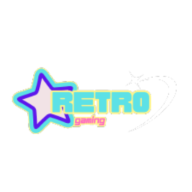
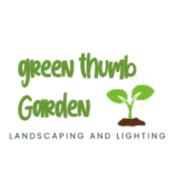
Finished project

Changed region(s): [[0.0312, 0.25, 0.875, 0.75]]

diff --git a/css/styles.min.css b/css/styles.min.css
@@ -1,1 +1,1 @@
-/*! normalize.css v8.0.1 | MIT License | github.com/necolas/normalize.css */html{line-height:1.15;-webkit-text-size-adjust:100%}body{margin:0}main{display:block}h1{font-size:2em;margin:.67em 0}hr{box-sizing:content-box;height:0;overflow:visible}pre{font-family:monospace,monospace;font-size:1em}a{background-color:rgba(0,0,0,0)}abbr[title]{border-bottom:none;text-decoration:underline;-webkit-text-decoration:underline dotted;text-decoration:underline dotted}b,strong{font-weight:bolder}code,kbd,samp{font-family:monospace,monospace;font-size:1em}small{font-size:80%}sub,sup{font-size:75%;line-height:0;position:relative;vertical-align:baseline}sub{bottom:-0.25em}sup{top:-0.5em}img{border-style:none}button,input,optgroup,select,textarea{font-family:inherit;font-size:100%;line-height:1.15;margin:0}button,input{overflow:visible}button,select{text-transform:none}button,[type=button],[type=reset],[type=submit]{-webkit-appearance:button;-moz-appearance:button;appearance:button}button::-moz-focus-inner,[type=button]::-moz-focus-inner,[type=reset]::-moz-focus-inner,[type=submit]::-moz-focus-inner{border-style:none;padding:0}button:-moz-focusring,[type=button]:-moz-focusring,[type=reset]:-moz-focusring,[type=submit]:-moz-focusring{outline:1px dotted ButtonText}fieldset{padding:.35em .75em .625em}legend{box-sizing:border-box;color:inherit;display:table;max-width:100%;padding:0;white-space:normal}progress{vertical-align:baseline}textarea{overflow:auto}[type=checkbox],[type=radio]{box-sizing:border-box;padding:0}[type=number]::-webkit-inner-spin-button,[type=number]::-webkit-outer-spin-button{height:auto}[type=search]{-webkit-appearance:textfield;-moz-appearance:textfield;appearance:textfield;outline-offset:-2px}[type=search]::-webkit-search-decoration{-webkit-appearance:none}::-webkit-file-upload-button{-webkit-appearance:button;font:inherit}details{display:block}summary{display:list-item}template{display:none}[hidden]{display:none}html{-moz-text-size-adjust:none;-webkit-text-size-adjust:none;text-size-adjust:none;height:100%}*{box-sizing:border-box}body{height:100%;font-family:"Poppins",sans-serif;font-weight:500;color:#1d741a}#headerWrapper{color:#1d741a}#titleWrapper{height:100%;margin-top:0}header{display:flex;align-items:center;justify-content:left;padding:0px;gap:8px}header h1{margin:auto 0;text-align:left;font-size:1.2rem;font-weight:800;font-family:"MuseoModerno",sans-serif;font-style:normal;color:#1d741a}.row{display:flex;flex-wrap:wrap;justify-content:center;margin:1rem 0;padding:0 8px}.column{padding:0 8px;margin:8px 0}.small-1{flex-basis:8.3333333333%}.small-2{flex-basis:16.6666666667%}.small-3{flex-basis:25%}.small-4{flex-basis:33.3333333333%}.small-5{flex-basis:41.6666666667%}.small-6{flex-basis:50%}.small-7{flex-basis:58.3333333333%}.small-8{flex-basis:66.6666666667%}.small-9{flex-basis:75%}.small-10{flex-basis:83.3333333333%}.small-11{flex-basis:91.6666666667%}.small-12{flex-basis:100%}.round,.fill,.shadow{padding:8px 8px}.round{border-radius:9px}.fill{background-color:#ffaeeb}.shadow{box-shadow:0 0 10px silver}.left{justify-content:left}.center{margin:auto;align-items:center}.swiper{position:relative}.swiper img{width:100%;height:auto}.swiper .swiper-text{position:absolute;z-index:99;bottom:10px;left:10px;color:#000;background:#000;background:linear-gradient(180deg, rgba(255, 255, 255, 0) 0%, rgba(255, 255, 255, 0.9220063025) 100%);padding:10px}.swiper .swiper-text h3{text-shadow:0 0 2px #494949}.swiper .swiper-text p{text-shadow:0 0 2px #494949}.headshots-wrapper{margin-top:36px}div.headshots{display:grid;grid-template-columns:1fr 1fr}div.headshots section{padding:7px}div.headshots section img{width:100%;height:auto;-webkit-clip-path:circle(50% at 50% 50%);clip-path:circle(50% at 50% 50%);transition:transform 2s}div.headshots section img:hover{transform:rotate(15deg)}div.masking{display:grid}div.masking section{position:relative;margin:5px}div.masking section h2{display:block;background-color:orange;margin:0;padding:12px;text-align:center;color:#fff;border-radius:4px 4px 0px 0px}div.masking section img{width:100%;height:auto;display:block}div.masking section img:last-child{position:absolute;bottom:0}#footerWrapper{background-color:#0aa;color:#fff}footer{padding:.5rem 16px}footer p{margin:0;font-weight:300;text-align:center}@media only screen and (max-width: 34.9375rem)and (max-width: 34.9375rem){nav{background-color:#0aa}nav button{width:100%;padding:.4rem 2vw;text-align:left;background:rgba(0,0,0,0);border:none;font-size:1.6rem;color:#fff;cursor:pointer}#primaryNav{height:0;overflow:hidden;margin:0;padding:0;z-index:998;font-weight:300}#primaryNav li.active a{background-color:rgba(0,0,0,.25)}#primaryNav li a{display:block;width:100%;padding:.75rem 2vw;font-size:14px;text-shadow:-1px -1px 0 rgba(0,0,0,.15);color:#fff;text-decoration:none;border-top:1px solid rgba(0,0,0,.2)}#primaryNav li a:hover{background-color:rgba(0,0,0,.5)}#primaryNav.open{height:auto}#primaryNav>li:hover>a{background:rgba(0,0,0,.5)}#primaryNav li.parent>a:after{font-size:1rem;content:"⋮";color:rgba(255,255,255,.5);float:right}#primaryNav li.parent>a:hover{background:rgba(0,0,0,.5)}#primaryNav li ul{display:none;background:rgba(0,0,0,.1);padding:0}#primaryNav li ul a{border-top:solid 1px rgba(0,0,0,.2);font-size:14px;padding:10px 5%;font-weight:300}#primaryNav li:hover ul{display:block}}@media only screen and (min-width: 35rem){header h1{font-size:2rem}#primaryNav{display:flex}#primaryNav li.parent>a:after{content:"▼";font-size:.65rem;color:rgba(255,255,255,.5);float:left}#navWrapper{background-color:#0aa}nav button{display:none}nav ul{margin-left:2%;border-left:1px solid rgba(255,255,255,.1);list-style-type:none}nav ul li{border-right:1px solid rgba(255,255,255,.1)}nav ul li a{display:block;font-size:1rem;padding:.9rem 1.2rem;color:#fff;text-decoration:none;transition:background .3s linear}nav ul li a:hover{background:#009191}nav ul li ul{display:flex;padding:0px;flex-direction:column;background-color:#0aa;border:none;width:12rem;position:absolute;left:-999rem}nav ul li ul li{border-right:none;border-top:solid 1px rgba(0,0,0,.2)}nav ul li ul li.active a{background-color:#009191}nav ul li:hover ul{left:auto;margin-left:0;z-index:99}div.headshots section{display:grid;grid-template-columns:140px auto;-moz-column-gap:14px;column-gap:14px;padding:10px}div.masking{display:grid;grid-template-columns:1fr 1fr}.medium-1{flex-basis:8.3333333333%}.medium-2{flex-basis:16.6666666667%}.medium-3{flex-basis:25%}.medium-4{flex-basis:33.3333333333%}.medium-5{flex-basis:41.6666666667%}.medium-6{flex-basis:50%}.medium-7{flex-basis:58.3333333333%}.medium-8{flex-basis:66.6666666667%}.medium-9{flex-basis:75%}.medium-10{flex-basis:83.3333333333%}.medium-11{flex-basis:91.6666666667%}.medium-12{flex-basis:100%}}@media only screen and (min-width: 60rem){header,nav,main,footer{max-width:60rem;margin:auto}Nav button{display:none}Nav ul,Nav ul.open{margin-left:2vw;display:flex;border:none}Nav ul li,Nav ul.open li{border:none}Nav ul li a,Nav ul.open li a{font-size:.9rem;padding:.5rem 1.2rem}div.headshots section{grid-template-columns:200px auto;-moz-column-gap:16px;column-gap:16px}div.masking{display:grid;grid-template-columns:1fr 1fr 1fr 1fr}.large-1{flex-basis:8.3333333333%}.large-2{flex-basis:16.6666666667%}.large-3{flex-basis:25%}.large-4{flex-basis:33.3333333333%}.large-5{flex-basis:41.6666666667%}.large-6{flex-basis:50%}.large-7{flex-basis:58.3333333333%}.large-8{flex-basis:66.6666666667%}.large-9{flex-basis:75%}.large-10{flex-basis:83.3333333333%}.large-11{flex-basis:91.6666666667%}.large-12{flex-basis:100%}}
+/*! normalize.css v8.0.1 | MIT License | github.com/necolas/normalize.css */html{line-height:1.15;-webkit-text-size-adjust:100%}body{margin:0}main{display:block}h1{font-size:2em;margin:.67em 0}hr{box-sizing:content-box;height:0;overflow:visible}pre{font-family:monospace,monospace;font-size:1em}a{background-color:rgba(0,0,0,0)}abbr[title]{border-bottom:none;text-decoration:underline;-webkit-text-decoration:underline dotted;text-decoration:underline dotted}b,strong{font-weight:bolder}code,kbd,samp{font-family:monospace,monospace;font-size:1em}small{font-size:80%}sub,sup{font-size:75%;line-height:0;position:relative;vertical-align:baseline}sub{bottom:-0.25em}sup{top:-0.5em}img{border-style:none}button,input,optgroup,select,textarea{font-family:inherit;font-size:100%;line-height:1.15;margin:0}button,input{overflow:visible}button,select{text-transform:none}button,[type=button],[type=reset],[type=submit]{-webkit-appearance:button;-moz-appearance:button;appearance:button}button::-moz-focus-inner,[type=button]::-moz-focus-inner,[type=reset]::-moz-focus-inner,[type=submit]::-moz-focus-inner{border-style:none;padding:0}button:-moz-focusring,[type=button]:-moz-focusring,[type=reset]:-moz-focusring,[type=submit]:-moz-focusring{outline:1px dotted ButtonText}fieldset{padding:.35em .75em .625em}legend{box-sizing:border-box;color:inherit;display:table;max-width:100%;padding:0;white-space:normal}progress{vertical-align:baseline}textarea{overflow:auto}[type=checkbox],[type=radio]{box-sizing:border-box;padding:0}[type=number]::-webkit-inner-spin-button,[type=number]::-webkit-outer-spin-button{height:auto}[type=search]{-webkit-appearance:textfield;-moz-appearance:textfield;appearance:textfield;outline-offset:-2px}[type=search]::-webkit-search-decoration{-webkit-appearance:none}::-webkit-file-upload-button{-webkit-appearance:button;font:inherit}details{display:block}summary{display:list-item}template{display:none}[hidden]{display:none}html{-moz-text-size-adjust:none;-webkit-text-size-adjust:none;text-size-adjust:none;height:100%}*{box-sizing:border-box}body{height:100%;font-family:"Poppins",sans-serif;font-weight:500;color:#1d741a}#headerWrapper{color:#1d741a}#titleWrapper{height:100%;width:500px;margin-top:0}#phone{display:none}header{display:flex;align-items:center;justify-content:left;padding:0px;gap:8px}header h1{margin:auto 0;text-align:left;font-size:1.2rem;font-family:"Titan One",sans-serif;font-weight:400;font-style:normal;color:#1d741a}.row{display:flex;flex-wrap:wrap;justify-content:center;margin:1rem 0;padding:0 8px}.column{padding:0 8px;margin:8px 0}.small-1{flex-basis:8.3333333333%}.small-2{flex-basis:16.6666666667%}.small-3{flex-basis:25%}.small-4{flex-basis:33.3333333333%}.small-5{flex-basis:41.6666666667%}.small-6{flex-basis:50%}.small-7{flex-basis:58.3333333333%}.small-8{flex-basis:66.6666666667%}.small-9{flex-basis:75%}.small-10{flex-basis:83.3333333333%}.small-11{flex-basis:91.6666666667%}.small-12{flex-basis:100%}.round,.fill,.shadow{padding:8px 8px}.round{border-radius:9px}.fill{background-color:#ffaeeb}.shadow{box-shadow:0 0 10px silver}.left{justify-content:left}.center{margin:auto;align-items:center}.swiper{position:relative}.swiper img{width:100%;height:auto}.swiper .swiper-text{position:absolute;z-index:99;bottom:10px;left:10px;color:#000;background:#000;background:linear-gradient(180deg, rgba(255, 255, 255, 0) 0%, rgba(255, 255, 255, 0.9220063025) 100%);padding:10px}.swiper .swiper-text h3{text-shadow:0 0 2px #494949}.swiper .swiper-text p{text-shadow:0 0 2px #494949}.headshots-wrapper{margin-top:36px}div.headshots{display:grid;grid-template-columns:1fr 1fr}div.headshots section{padding:7px}div.headshots section img{width:100%;height:auto;-webkit-clip-path:circle(50% at 50% 50%);clip-path:circle(50% at 50% 50%);transition:transform 2s}div.headshots section img:hover{transform:rotate(15deg)}div.masking{display:grid}div.masking section{position:relative;margin:5px}div.masking section h2{display:block;background-color:orange;margin:0;padding:12px;text-align:center;color:#fff;border-radius:4px 4px 0px 0px}div.masking section img{width:100%;height:auto;display:block}div.masking section img:last-child{position:absolute;bottom:0}#footerWrapper{background-color:orange;color:#fff}footer{padding:.5rem 16px}footer p{margin:0;font-weight:300;text-align:center}@media only screen and (max-width: 34.9375rem)and (max-width: 34.9375rem){nav{background-color:orange}nav button{width:100%;padding:.4rem 2vw;text-align:left;background:rgba(0,0,0,0);border:none;font-size:1.6rem;color:#fff;cursor:pointer}#primaryNav{height:0;overflow:hidden;margin:0;padding:0;z-index:998;font-weight:300}#primaryNav li.active a{background-color:rgba(0,0,0,.25)}#primaryNav li a{display:block;width:100%;padding:.75rem 2vw;font-size:14px;text-shadow:-1px -1px 0 rgba(0,0,0,.15);color:#fff;text-decoration:none;border-top:1px solid rgba(0,0,0,.2)}#primaryNav li a:hover{background-color:rgba(0,0,0,.5)}#primaryNav.open{height:auto}#primaryNav>li:hover>a{background:rgba(0,0,0,.5)}#primaryNav li.parent>a:after{font-size:1rem;content:"⋮";color:rgba(255,255,255,.5);float:right}#primaryNav li.parent>a:hover{background:rgba(0,0,0,.5)}#primaryNav li ul{display:none;background:rgba(0,0,0,.1);padding:0}#primaryNav li ul a{border-top:solid 1px rgba(0,0,0,.2);font-size:14px;padding:10px 5%;font-weight:300}#primaryNav li:hover ul{display:block}}@media only screen and (min-width: 35rem){header h1{font-size:2rem}#phone{display:block}#primaryNav{display:flex}#primaryNav li.parent>a:after{content:"▼";font-size:.65rem;color:rgba(255,255,255,.5);float:left}#navWrapper{background-color:orange}nav button{display:none}nav ul{margin-left:2%;border-left:1px solid rgba(255,255,255,.1);list-style-type:none}nav ul li{border-right:1px solid rgba(255,255,255,.1)}nav ul li a{display:block;font-size:1rem;padding:.9rem 1.2rem;color:#fff;text-decoration:none;transition:background .3s linear}nav ul li a:hover{background:#e69500}nav ul li ul{display:flex;padding:0px;flex-direction:column;background-color:orange;border:none;width:12rem;position:absolute;left:-999rem}nav ul li ul li{border-right:none;border-top:solid 1px rgba(0,0,0,.2)}nav ul li ul li.active a{background-color:#e69500}nav ul li:hover ul{left:auto;margin-left:0;z-index:99}div.headshots section{display:grid;grid-template-columns:140px auto;-moz-column-gap:14px;column-gap:14px;padding:10px}div.masking{display:grid;grid-template-columns:1fr 1fr}.medium-1{flex-basis:8.3333333333%}.medium-2{flex-basis:16.6666666667%}.medium-3{flex-basis:25%}.medium-4{flex-basis:33.3333333333%}.medium-5{flex-basis:41.6666666667%}.medium-6{flex-basis:50%}.medium-7{flex-basis:58.3333333333%}.medium-8{flex-basis:66.6666666667%}.medium-9{flex-basis:75%}.medium-10{flex-basis:83.3333333333%}.medium-11{flex-basis:91.6666666667%}.medium-12{flex-basis:100%}}@media only screen and (min-width: 60rem){header,nav,main,footer{max-width:60rem;margin:auto}Nav button{display:none}Nav ul,Nav ul.open{margin-left:2vw;display:flex;border:none}Nav ul li,Nav ul.open li{border:none}Nav ul li a,Nav ul.open li a{font-size:.9rem;padding:.5rem 1.2rem}div.headshots section{grid-template-columns:200px auto;-moz-column-gap:16px;column-gap:16px}div.masking{display:grid;grid-template-columns:1fr 1fr 1fr 1fr}.large-1{flex-basis:8.3333333333%}.large-2{flex-basis:16.6666666667%}.large-3{flex-basis:25%}.large-4{flex-basis:33.3333333333%}.large-5{flex-basis:41.6666666667%}.large-6{flex-basis:50%}.large-7{flex-basis:58.3333333333%}.large-8{flex-basis:66.6666666667%}.large-9{flex-basis:75%}.large-10{flex-basis:83.3333333333%}.large-11{flex-basis:91.6666666667%}.large-12{flex-basis:100%}}

diff --git a/index.html b/index.html
@@ -1,7 +1,7 @@
 <!DOCTYPE html>
 <html lang="en">
 <head>
-    <title>Retro Gaming</title>
+    <title>Green Thumb Garden</title>
     <meta name="description" content="Brooke Anderson's Sample Start File with SCSS">
     <meta name="author" content="Brooke Anderson">
 
@@ -14,6 +14,10 @@
     <link rel="preconnect" href="https://fonts.gstatic.com" crossorigin>
     <link href="https://fonts.googleapis.com/css2?family=Poppins:wght@300;500;700&display=swap" rel="stylesheet">
     <link href="https://fonts.googleapis.com/css2?family=MuseoModerno:ital,wght@0,100..900;1,100..900&display=swap" rel="stylesheet">
+    <link rel="preconnect" href="https://fonts.googleapis.com">
+    <link rel="preconnect" href="https://fonts.gstatic.com" crossorigin>
+    <link href="https://fonts.googleapis.com/css2?family=Titan+One&display=swap" rel="stylesheet">
+
 
     <link rel="stylesheet" href="https://cdn.jsdelivr.net/npm/swiper@11/swiper-bundle.min.css"/>
     <link href="css/styles.min.css" rel="stylesheet">
@@ -36,9 +40,11 @@
             srcset="images/logo-3x.png 1x, images/logo-3x.png 2x, images/logo-3x.png 3x">
         </figure>
         <div id="titleWrapper">
-            <h1>Retro Tech Conference</h1>
-            <p>Explore The Past</p>
+            <h1>Landscaping and Lighting Pros</h1>
+            <p>Let us use our green thumbs</p>
         </div>
+
+        <div id="phone"><a href="tel:18005551234"> 1800-555-1234</a></div>
     </header>
 </div>
 
@@ -48,7 +54,7 @@
             &#9776;
         </button>
         <ul id="primaryNav">
-            <li class="parent"><a href="#">Clients</a>
+            <li class="parent"><a href="#">Pricing</a>
                 <ul>
                     <li class="active"><a href="#">Menu Item One</a></li>
                     <li><a href="#">Menu Item Two</a></li>
@@ -103,8 +109,8 @@
 
     </div>
     <div class="swiper-text">
-        <h3>Cutting Edge Technology</h3>
-        <p>From 1985</p>
+        <h3>Beautiful Gardens</h3>
+        <p>Salt Lake city, UT</p>
     </div>
   
 

diff --git a/css/styles.css b/css/styles.css
@@ -339,7 +339,12 @@ body {
 
 #titleWrapper {
   height: 100%;
+  width: 500px;
   margin-top: 0;
+}
+
+#phone {
+  display: none;
 }
 
 header {
@@ -353,8 +358,8 @@ header h1 {
   margin: auto 0;
   text-align: left;
   font-size: 1.2rem;
-  font-weight: 800;
-  font-family: "MuseoModerno", sans-serif;
+  font-family: "Titan One", sans-serif;
+  font-weight: 400;
   font-style: normal;
   color: rgb(29, 116, 26);
 }
@@ -519,7 +524,7 @@ div.masking section img:last-child {
 }
 
 #footerWrapper {
-  background-color: #0aa;
+  background-color: orange;
   color: white;
 }
 
@@ -538,7 +543,7 @@ footer p {
 }
 @media only screen and (max-width: 34.9375rem) and (max-width: 34.9375rem) {
   nav {
-    background-color: #0aa;
+    background-color: orange;
   }
   /* Navigation Button  -------------------------------------------------------- */
   nav button {
@@ -613,6 +618,9 @@ footer p {
   header h1 {
     font-size: 2rem;
   }
+  #phone {
+    display: block;
+  }
   #primaryNav {
     display: flex;
   }
@@ -623,7 +631,7 @@ footer p {
     float: left;
   }
   #navWrapper {
-    background-color: #0aa;
+    background-color: orange;
   }
   nav button {
     display: none;
@@ -645,13 +653,13 @@ footer p {
     transition: background 0.3s linear;
   }
   nav ul li a:hover {
-    background: #009191;
+    background: #e69500;
   }
   nav ul li ul {
     display: flex;
     padding: 0px;
     flex-direction: column;
-    background-color: #0aa;
+    background-color: orange;
     border: none;
     width: 12rem;
     position: absolute;
@@ -662,7 +670,7 @@ footer p {
     border-top: solid 1px rgba(0, 0, 0, 0.2);
   }
   nav ul li ul li.active a {
-    background-color: #009191;
+    background-color: #e69500;
   }
   nav ul li:hover ul {
     left: auto;

diff --git a/scss/_small.scss b/scss/_small.scss
@@ -26,7 +26,13 @@ body {
 
 #titleWrapper {
   height: 100%;
+  width: 500px;
   margin-top: 0;
+}
+
+
+#phone{
+  display:none;
 }
 
 header {
@@ -39,8 +45,8 @@ header {
     margin: auto 0;
     text-align: left;
     font-size: 1.2rem;
-    font-weight: 800;
-    font-family: "MuseoModerno", sans-serif;
+    font-family: "Titan One", sans-serif;
+    font-weight: 400;
     font-style: normal;
     color: $primaryColor;
   }

diff --git a/scss/_medium.scss b/scss/_medium.scss
@@ -4,6 +4,9 @@ header {
     }
 }
 
+#phone{
+    display:block;
+  }
 
 #primaryNav {display: flex;}
 
@@ -13,6 +16,7 @@ header {
     color: rgba(255,255,255,0.5);
     float: left;
 }
+
 
 #navWrapper {
     background-color: $menuColor;

diff --git a/scss/_variables.scss b/scss/_variables.scss
@@ -1,7 +1,7 @@
 $primaryColor: rgb(29, 116, 26);
 $secondaryColor: rgb(29, 116, 26);
 $fontColor: rgb(29, 116, 26);
-$menuColor: #0aa;
+$menuColor: orange;
 
 $defaultFont: 'Poppins', sans-serif;
 $lightWeight: 300;
